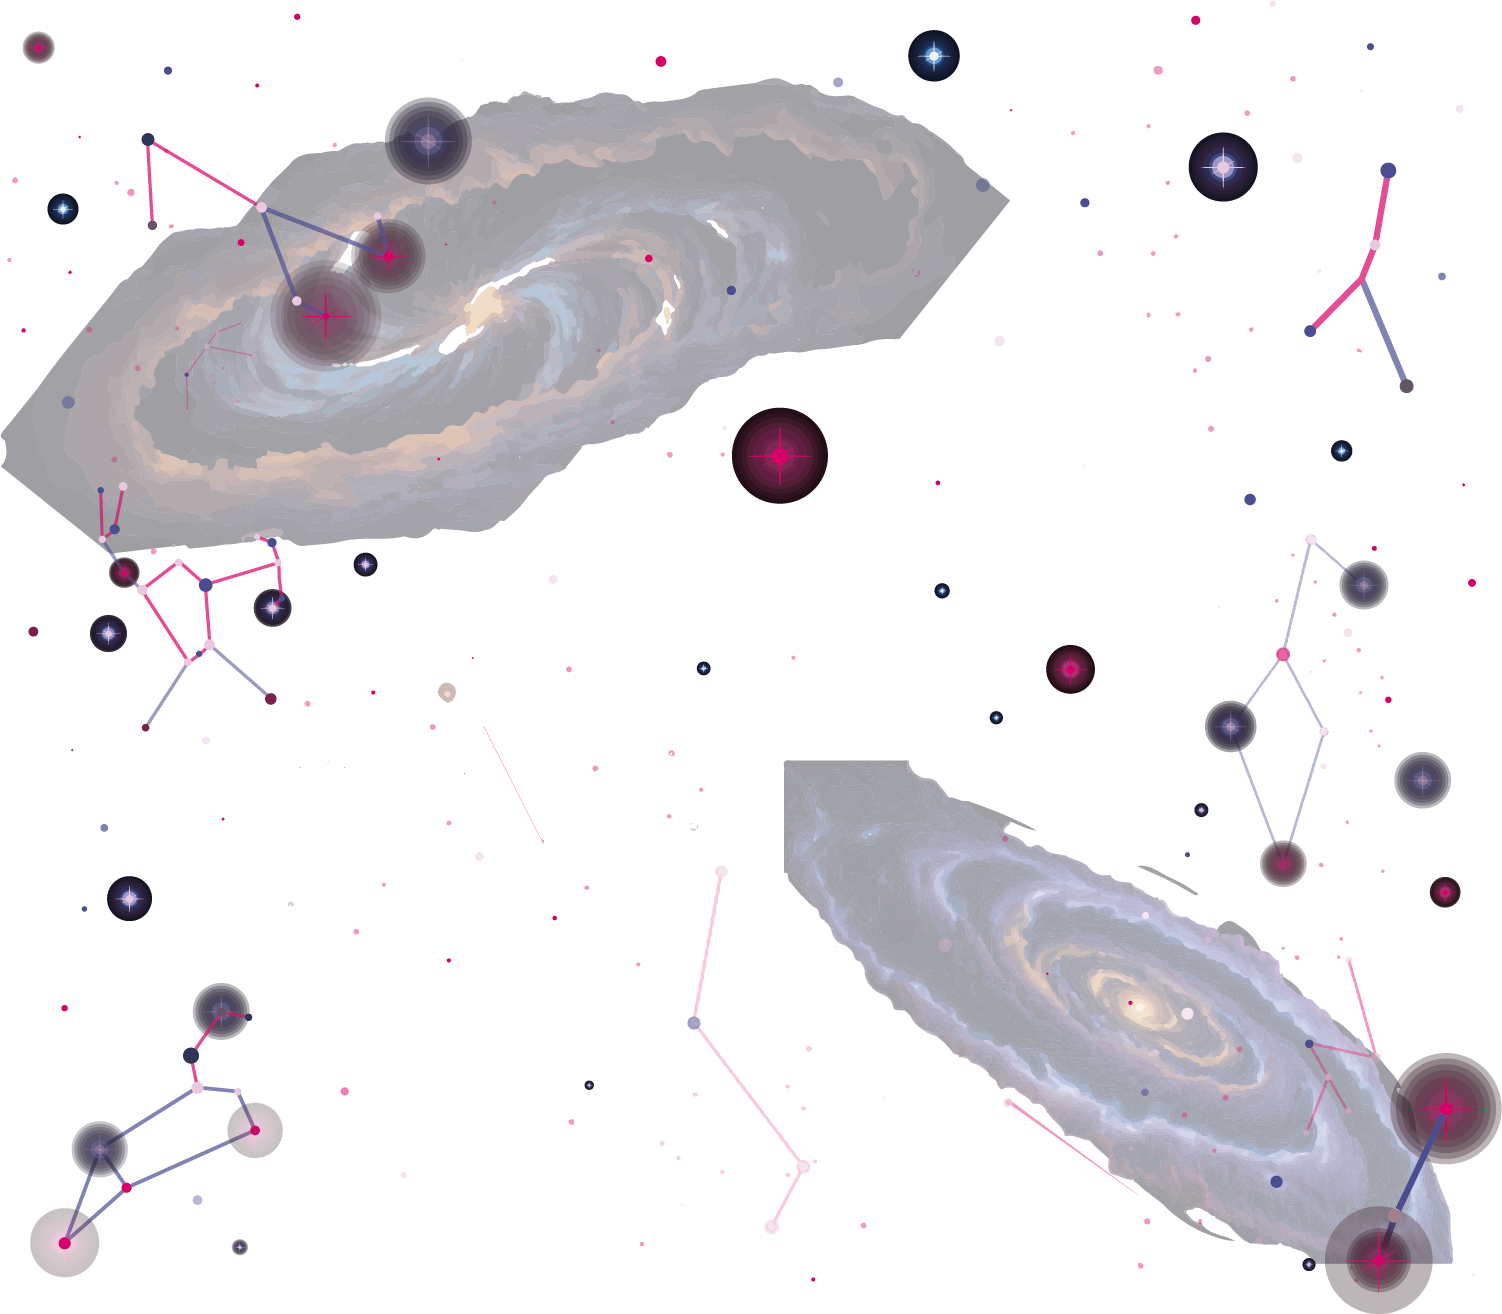
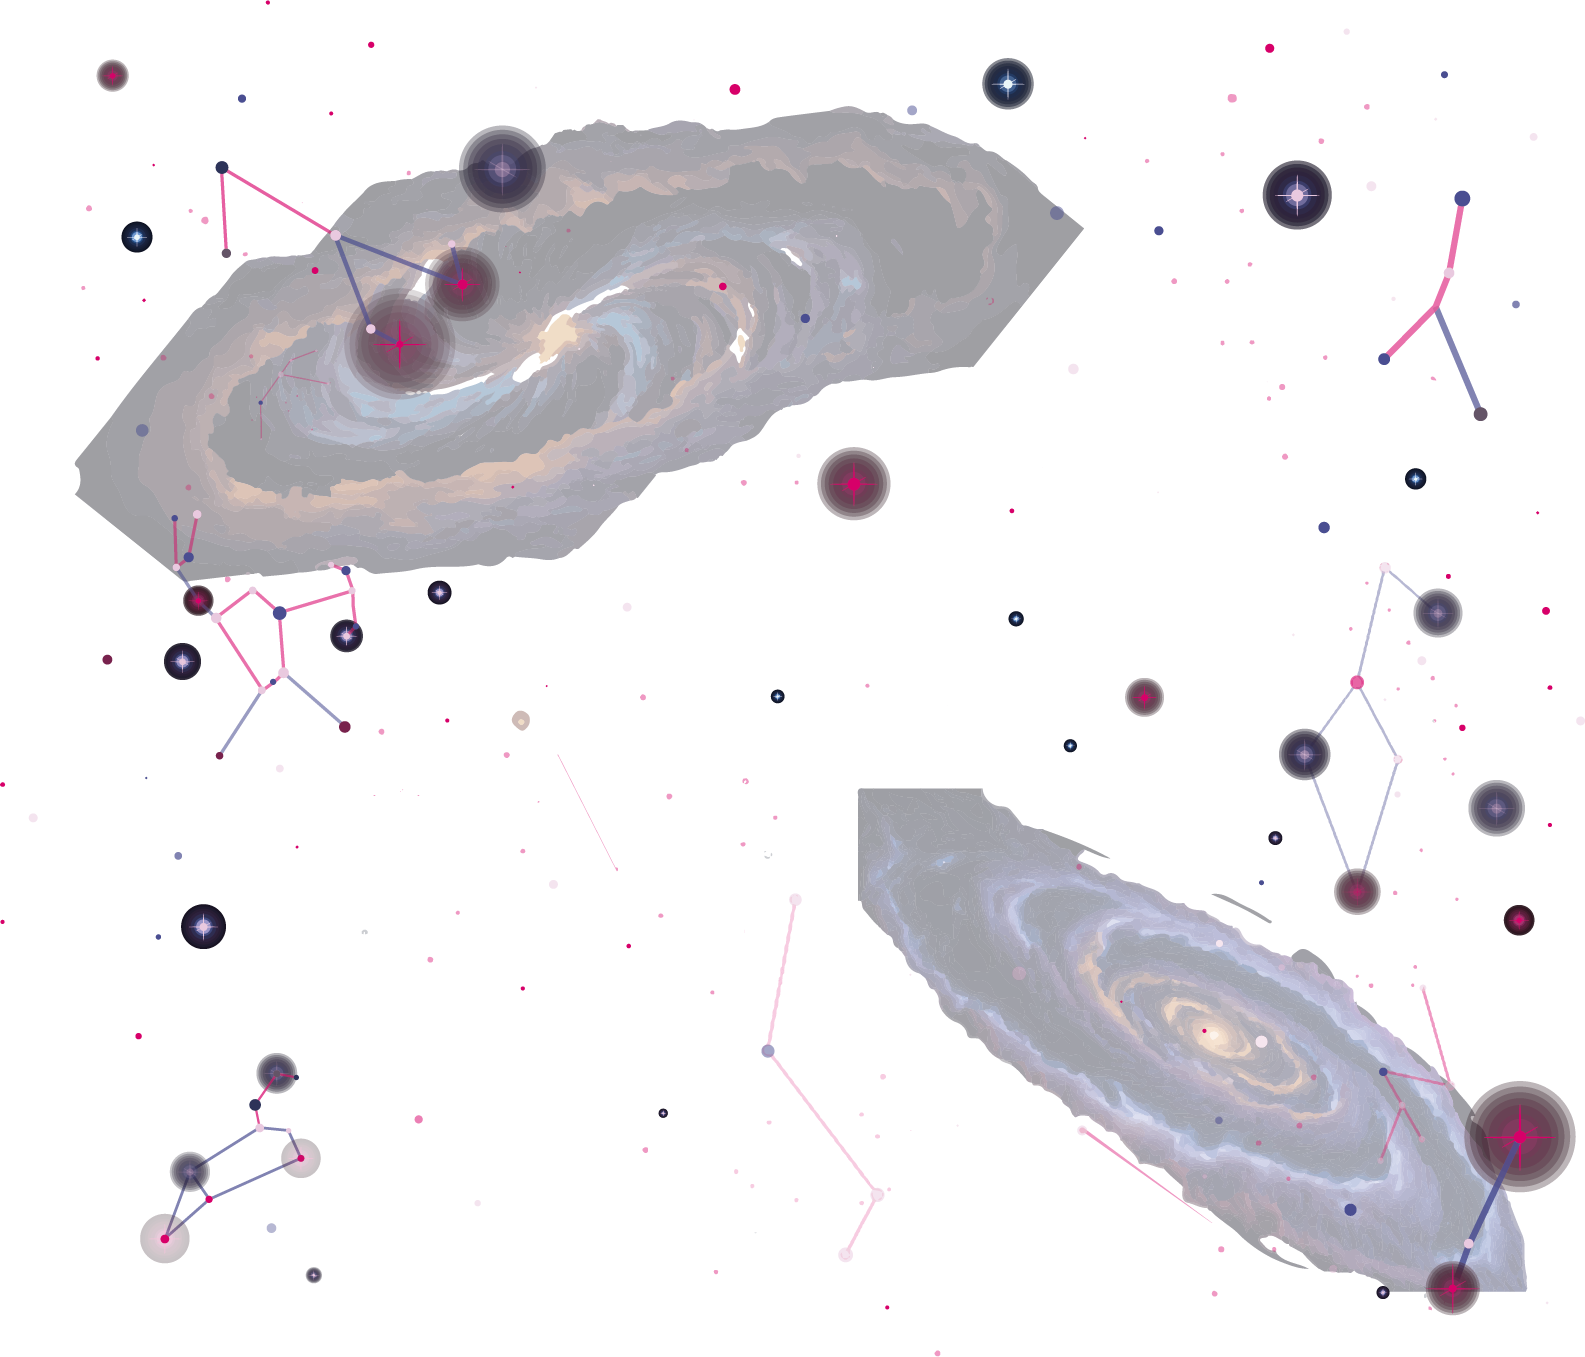
kinera-cosmos-constellations

diff --git a/src/components/Welcome/index.jsx b/src/components/Welcome/index.jsx
@@ -1,10 +1,10 @@
 import { AiOutlineCaretDown } from "react-icons/ai";
-import missionImg3 from '../../assets/images/cosmos1.png';
+import missionImg3 from '../../assets/images/cosmos8.png';
 import Header from "../Header";
 
 import './style.css';
 
-import Banner from '../../assets/images/kinera-banner.png';
+import Banner from '../../assets/images/kinera-banner2.png';
 
 const Welcome = () => {
     return (
@@ -14,12 +14,12 @@ const Welcome = () => {
             <div className="mission-container">
             <div className="main-content">
             
-            <div className="background-image" style={{backgroundImage: `url(${missionImg3})`}} />
+            <div className="background-image2" style={{backgroundImage: `url(${missionImg3})`}} />
             <div className='global-mobile'>
                 <div className="content-wrapper mt-6">
-                    <h1 className="kinera-title mt-20" style={{ zIndex: 1 }}>KINERA</h1>
+                    <h1 className="kinera-title" style={{ zIndex: 1 }}>KINERA</h1>
 
-                    <div className="logo-section mt-20" >
+                    <div className="logo-section" >
                         <img src={Banner} alt='BigK02' className="logo-img pulse" />
                     </div>
 

diff --git a/src/components/Welcome/style.css b/src/components/Welcome/style.css
@@ -36,6 +36,7 @@
     font-size: 130px;
     font-weight: bold;
     text-align: center;
+    margin-top: 10rem; /* This is now defined in the CSS */
 }
 
 .logo-section {
@@ -43,13 +44,13 @@
     flex-direction: column;
     align-items: center;
     justify-content: center;
+    margin-top: 10rem; /* This is now defined in the CSS */
 }
 
 .logo-img {
-    width: 51rem; /* You'll adjust this value for different screen sizes */
-    max-width: 100%; /* This will ensure the image never exceeds the container width */
+    width: 51rem;
+    max-width: 100%;
     height: auto;
-    margin-top: -2rem;
 }
 
 /* This is for tablets and smaller laptops */
@@ -113,4 +114,16 @@
 .icon {
     color: pink;
     font-size: 1rem;
+}
+
+.background-image2 {
+    position: absolute;
+    
+    top: 0;
+    left: 0;
+    width: 100%;
+    height: 100%;
+    z-index: 0;
+    background-size: cover;
+    background-position: center center;
 }
